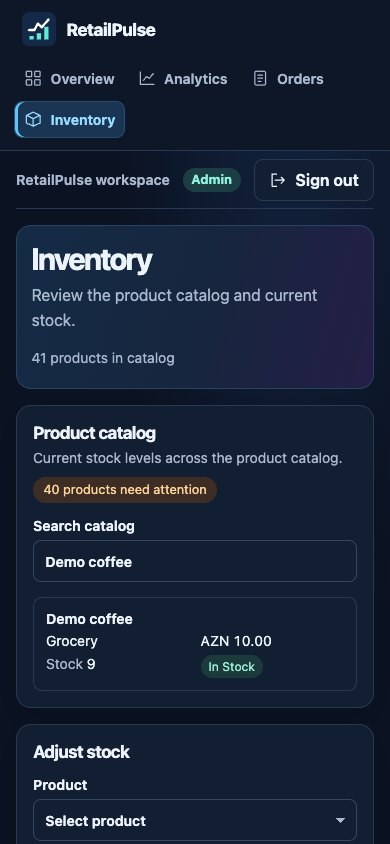
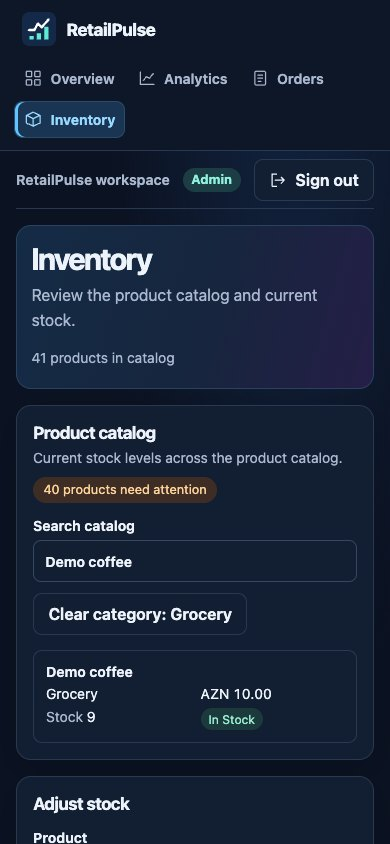
Complete RetailPulse portfolio and presentation handover

Changed region(s): [[0.0615, 0.7085, 0.7077, 1.0], [0.8923, 0.8318, 0.9231, 0.8626]]

diff --git a/README.md b/README.md
@@ -4,6 +4,17 @@ RetailPulse is a university portfolio project for retail sales analysis and inve
 
 **Live demo** [RetailPulse on Firebase Hosting](https://retailpulse-cloud-analytics.web.app). An existing RetailPulse account with an active role is required.
 
+## Problem and solution
+
+A retail team needs to answer two questions quickly: what sold in a given period, and how much stock is available now? RetailPulse connects sales reporting and inventory operations in one workspace. Staff filter orders and export the result, while authorized users make stock adjustments or record a sale.
+
+## Stack
+
+- **Frontend:** HTML, CSS, JavaScript, Vite, and Chart.js
+- **Cloud:** Firebase Authentication, Cloud Firestore, Security Rules, and Firebase Hosting
+- **Verification:** Node.js test runner, Firebase Local Emulator Suite, and Chrome workflow checks
+- **Demo data:** CSV fixtures and Python generation and import scripts
+
 ## Screenshots
 
 The desktop overview and mobile inventory were captured in Chrome with the repository's demo data loaded into local Firebase emulators.
@@ -19,7 +30,18 @@ The desktop overview and mobile inventory were captured in Chrome with the repos
 - Order entry with Firestore validation and an atomic stock deduction.
 - CSV export of the same orders used by the analytics filters.
 
-Revenue and average order value use completed orders. Order count uses all matching statuses. Unique customer count uses distinct nonempty customer IDs from those orders. CSV output preserves the selected filters and escapes spreadsheet formula prefixes. The inventory table shows current stock independently of the historical sales period and follows the category filter.
+## Analytics methodology
+
+| KPI | Definition |
+| --- | --- |
+| Total revenue | Sum of valid nonnegative totals for completed orders in the selection, in AZN |
+| Total orders | Count of matching orders across all statuses |
+| Average order value | Completed-order revenue divided by the count of completed orders with valid amounts |
+| Unique customers | Distinct nonempty customer IDs across matching orders |
+
+Year and month filters use the UTC order date. The category filter joins each order to its product ID. The revenue chart groups completed orders by month, with a zero for a month without completed sales. The product chart ranks products by completed revenue. CSV exports the same filtered order rows and escapes spreadsheet formula prefixes. Inventory shows current stock and follows the category filter independently of the historical dates.
+
+## Role-based access
 
 | Role | Products | Orders and analytics | Customer directory | Create orders | Adjust stock | CSV button |
 | --- | --- | --- | --- | --- | --- | --- |
@@ -34,6 +56,13 @@ The table describes the workspace and the proposed direct Firestore read policy.
 
 The Vite frontend uses HTML, CSS, JavaScript, and Chart.js. Firebase Authentication handles email/password sign-in. The app watches the signed-in user's profile at `users/{uid}` and loads the permitted Firestore collections. Firestore Rules enforce backend access. Inventory changes and order creation use Firestore transactions. Firebase Hosting serves the static build. Python scripts and CSV files supplied the original demo dataset.
 
+| Firestore path | Purpose |
+| --- | --- |
+| `users/{uid}` | The user's role and active status |
+| `products/{productDocId}` | Product ID, category, price, stock, and latest order reference |
+| `customers/{customerDocId}` | Customer ID and directory details |
+| `orders/{orderId}` | Product and customer references, UTC date, server timestamp, quantity, price, total, and status |
+
 New orders reference existing product and customer documents, use a server timestamp and UTC order date, and commit with the exact stock deduction. Firestore validates the quantity, current unit price, and rounded total. Existing historical orders require no migration. This rule set also preserves stock increases and decreases for active admins and inventory users.
 
 ## Local setup
@@ -45,11 +74,28 @@ New orders reference existing product and customer documents, use a server times
 
 Firebase profile documents need an approved lowercase `role` and Boolean `active: true`. The production Admin SDK key belongs outside frontend assets and Git. The legacy Python import script replaces documents by ID and is unnecessary for routine use of the hosted demo.
 
+## Security and deployment
+
+Firebase Authentication establishes identity. The app listens to the signed-in user's own profile and opens data listeners for the collections used by that role. The proposed rules enforce the same read matrix at the database. Only active Admin and Sales users can write new orders, and active Admin and Inventory users can adjust stock. Order creation validates the matching stock write and rejects standalone deductions from Sales.
+
+A Hosting release publishes the static `dist` build. Firestore Rules are published separately with explicit owner approval. Test transactions run against local emulators and synthetic documents.
+
 ## Status
 
 The hosted dashboard, independent stock adjustments, and atomic order creation are live. The active production ruleset is `1b8d2d75-ec37-41c4-bcde-5828d462e113`. The pending rules change narrows collection reads to the workspace roles above and preserves the live order and stock write permissions. See [Manual final steps](MANUAL_FINAL_STEPS.md).
 
 Order dates use UTC. A submission that crosses midnight UTC between the client timestamp and the server commit can be rejected safely and retried with the new date. Failed orders leave inventory unchanged.
+
+## Limitations and possible next steps
+
+- The hosted dashboard requires an existing account. Signed-in browser workflows were verified with emulator accounts. Production authentication was outside this verification.
+- Reporting loads the allowed collections in the browser. Larger datasets could benefit from aggregate queries and pagination.
+- The demo models one product per order. Multi-line orders and historical inventory snapshots are potential extensions.
+
+## Portfolio materials
+
+- [University presentation outline and speaker notes](docs/PORTFOLIO_PRESENTATION.md)
+- [Release verification and security status](docs/FINAL_RELEASE_REPORT.md)
 
 ## CV summary
 

diff --git a/docs/PORTFOLIO_PRESENTATION.md b/docs/PORTFOLIO_PRESENTATION.md
@@ -1,0 +1,66 @@
+# RetailPulse Cloud Analytics · University presentation
+
+## Slide 1 · What RetailPulse solves
+
+- Retail sales analysis and inventory operations in one workspace.
+- Two questions drive the interface: what sold, and what stock is available now?
+
+**Speaker notes.** Introduce the project as a university portfolio application using demo retail records. Explain that tracking sales and inventory in separate workflows makes it harder to connect a sale to the stock it consumes.
+
+## Slide 2 · Live product walkthrough
+
+- Overview, Analytics, Orders, and Inventory views.
+- Dark responsive layout with navigation and actions tailored to the signed-in role.
+
+**Speaker notes.** Show the desktop overview screenshot first. Explain how the year, month, and category selectors change the report. Show the mobile inventory screenshot to demonstrate how the table reflows. Use screenshots for the presentation if there is no dedicated demo account.
+
+## Slide 3 · Architecture and technology
+
+- Vite, JavaScript, HTML, CSS, and Chart.js in the browser.
+- Firebase Authentication for identity, Firestore for data and policy, Firebase Hosting for the static build.
+
+**Speaker notes.** Trace the request from sign-in to the user's profile and then to the data collections enabled for the role. The client draws the charts from stored orders. Firestore validates access and writes before committing them.
+
+## Slide 4 · Data model
+
+- Users, products, customers, and orders.
+- Product and customer business IDs connect historical data. New orders also store document references and a server timestamp.
+
+**Speaker notes.** Show the four collections. Explain why the order stores its unit price even when the product's current price can change later. Distinguish current stock from historical sales.
+
+## Slide 5 · Business intelligence and methodology
+
+- Revenue and average order value use completed orders with valid totals.
+- Order count uses all matching statuses. Unique customers counts distinct nonempty IDs.
+- Charts and CSV export share the period and category selection.
+
+**Speaker notes.** Demonstrate how changing the year avoids combining orders for the same month in different years. Explain that the product chart ranks completed revenue, and the CSV lets a reviewer reproduce the filtered totals in a spreadsheet.
+
+## Slide 6 · Authentication, roles, and security
+
+- Admin and Sales can place orders. Admin and Inventory can adjust stock. Analyst can analyze orders without customer-directory access under the proposed rules.
+- Active profiles control access. Clients cannot grant themselves roles.
+
+**Speaker notes.** Separate sign-in from authorization. Explain that the live order and stock write rules are enforced. Direct collection reads on production are still broader than the dashboard role matrix. The tested role-aware read rules require owner approval before they can be published.
+
+## Slide 7 · Atomic orders and inventory integrity
+
+- Read the customer, product, current price, and available stock.
+- Validate the quantity and total, then commit the order and stock deduction together.
+- When another sale consumes the available stock, an overselling attempt fails without leaving an order.
+
+**Speaker notes.** Use a three-unit product and two simultaneous two-unit orders to explain the concurrency test. Explain that independent stock changes only update the stock field and require the appropriate role. Run transaction demonstrations with emulator data.
+
+## Slide 8 · Testing and deployment
+
+- Analytics and CSV tests, Firestore permission and transaction tests, and desktop and mobile Chrome checks.
+- A production Vite build is served by Firebase Hosting. Rules use a separate reviewed release.
+
+**Speaker notes.** Describe the emulator fixtures and how tests prove both allowed and denied behavior. Show the release report for the exact results. Explain that no production records are needed for destructive or write-heavy tests.
+
+## Slide 9 · Results and lessons learned
+
+- A hosted portfolio application joins analytics, access control, and inventory workflows.
+- Key lessons: make KPI definitions explicit, enforce writes at the data boundary, and test negative cases.
+
+**Speaker notes.** Summarize the project as evidence of dashboard development, cloud integration, and transactional data integrity. Mention the current role-read rollout gate and how larger datasets could be handled with aggregate queries and pagination.

diff --git a/MANUAL_FINAL_STEPS.md b/MANUAL_FINAL_STEPS.md
@@ -11,6 +11,9 @@ existing rules while this approval is pending.
    products, orders, and customers. Active Analyst can read products and
    orders. Active Inventory can read products. Each user can still read their
    own profile. Order and stock write permissions stay the same.
-3. If this matrix is acceptable, approve publishing **only** the tested
-   Firestore Rules from the commit in the release report. No account changes
-   or new Hosting release are needed for that rules change.
+3. If this matrix is acceptable, reply with explicit approval to publish
+   **only** the tested `firestore.rules` to `retailpulse-cloud-analytics`.
+   Its SHA-256 is
[1 lines of base64/hex data omitted]
+   The verified baseline has been backed up outside Git. No account changes
+   or new Hosting release are needed.
